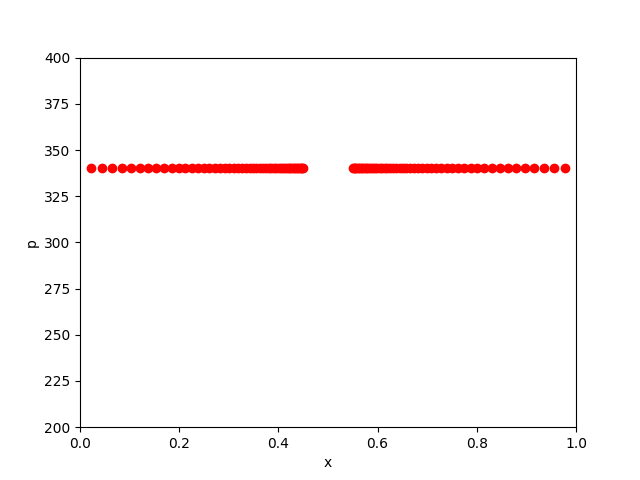
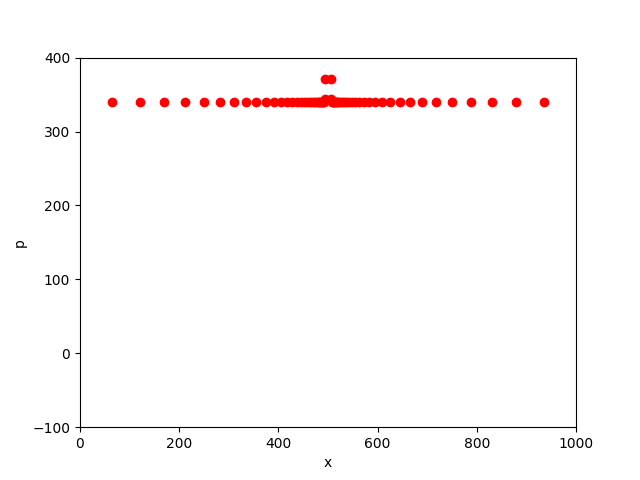
well class added

diff --git a/CVFEAssembler/cvfe_assembler.py b/CVFEAssembler/cvfe_assembler.py
@@ -3,13 +3,15 @@ import scipy.sparse
 
 from equation.base_equation import Equation
 from mesh1D.mesh1D import Mesh1D
+from well.well import Well
 
 
 def assemble_system(
     mesh: Mesh1D, 
     equation: Equation, 
-    dt, 
-    pold
+    well: Well,
+    dt: float,
+    pold: np.ndarray
 ):
     
     # get mesh
@@ -24,13 +26,17 @@ def assemble_system(
     acc = equation.accumulative_term()
     
     # Fill tridiagonal stiffness matrix
-    a, b, c, rhs = (np.zeros(N) for _ in range(4))
+    a, b, c, rhs = (np.zeros(N + 1) for _ in range(4))
+    
+    well_node = mesh.well_nId
     
     for i in range(1, N - 1):
+        p = pold[i]
+         
         a[i]   = lam / (mesh_nodes[i] - mesh_nodes[i - 1])
         c[i]   = lam / (mesh_nodes[i + 1] - mesh_nodes[i])
         b[i]   = - acc / dt * (mesh_nodes[i + 1] - mesh_nodes[i - 1]) / 2 - a[i] - c[i]
-        rhs[i] = - acc / dt * (mesh_nodes[i + 1] - mesh_nodes[i - 1]) / 2 * pold[i]
+        rhs[i] = - acc / dt * (mesh_nodes[i + 1] - mesh_nodes[i - 1]) / 2 * p
     
     # Left boundary
     c[0] = lam / (mesh_nodes[1] - mesh_nodes[0])
@@ -46,9 +52,22 @@ def assemble_system(
     A = scipy.sparse.diags(
         diagonals = [a[1:], b, c[:-1]],
         offsets=[-1, 0, 1],
-        shape=(N, N),
+        shape=(N + 1, N + 1),
         format='csr'
     )
+    
+    # ================================
+    # connect well to Stiffness matrix
+    
+    pisman_qoef = well.get_well_index(
+        (mesh_nodes[well_node] - mesh_nodes[well_node - 1]) / 2,
+        lam
+    )
+
+    A[well_node, N] = -pisman_qoef
+    A[N, well_node] = -pisman_qoef
+    A[N, N]         =  pisman_qoef
+    rhs[N]          = -well.get_q
     
     return A, rhs
     

diff --git a/LinearSolver.py b/LinearSolver.py
@@ -6,19 +6,29 @@ from pvts.LinearPVT import LinearPVT
 from equation.linear_equation1D import LinearEquation1D
 from CVFEAssembler.cvfe_assembler import assemble_system
 from solver.bcgstab_solver import BCGStabSolver
+from well.well import Well
 from visualization.visualizators import print_solution
 
 
 def LinearSolver():
     linear_element = LinearElement()
     
+    # Initialize well object
+    well = Well(
+        well_position=500,
+        rad_well=0.1,
+        skin=0,
+        q_rate=1, # m^3/day
+        well_h=10
+    )
+    
     # Initialize mesh object
     OneDimMesh = Mesh1D(
         x_start=0.0,
-        x_end=1.0,
-        min_h=0.05,
-        max_h=0.5,
-        well_x=0.5,
+        x_end=1000.0,
+        min_h=0.5,
+        max_h=1.,
+        well_x=well.get_well_position,
         element_type=linear_element,
         N=100,
         mesh_type="geometric"
@@ -37,24 +47,25 @@ def LinearSolver():
     # Initialize equation system solver
     Solver = BCGStabSolver(tol=0.001)
     
+    well_node = OneDimMesh.well_nId
+    
     # Time loop
-    for i in range(1, 100):
+    for i in range(1, 1000):
         # Assemble system
         Stifness_Matrix, Force_Vector = assemble_system(
             OneDimMesh,
             Equation_Data,
-            0.001,
+            well,
+            1,
             p_old
         )
         
         p_old = scipy.sparse.linalg.spsolve(Stifness_Matrix, Force_Vector)
         
-        print("Solved for " + str(i) + " time layer")
-        
-    print(p_old[-1])
-    
+        well.write_pwf(p_old[-1])
+                
     print_solution(OneDimMesh, p_old)
-        
+    
         
     
     print("Linear Solver Finished")

diff --git a/mesh1D/mesh1D.py b/mesh1D/mesh1D.py
@@ -32,6 +32,9 @@ class Mesh1D:
         # generate ordinary mesh
         self.generate_mesh()
         
+        # find well node
+        self.well_nId = self.find_well_node_id() 
+        
     def generate_mesh(self):
         if(self.mesh_type == "ordinary"):
             self.generate_ordinary_nodes()
@@ -52,7 +55,7 @@ class Mesh1D:
     def generate_ordinary_elements(self) -> None:
         self.elements = [[i, i + 1] for i in range(self.N)]
         
-    # Exponential mesh
+    # FIXME: Exponential mesh 
     def generate_exponential_nodes(self) -> None:
         xi = np.linspace(0, 1, self.N)
     
@@ -83,11 +86,20 @@ class Mesh1D:
         left_nodes  = [self.well_x - self.min_h * np.power(alpha_left,  i) for i in range(0, int(self.N / 2))]
         right_nodes = [self.well_x + self.min_h * np.power(alpha_right, i) for i in range(0, int(self.N / 2))]
         
+        left_nodes = left_nodes[::-1]
+        left_nodes.append(self.well_x)
+        self.N += 1
+        
         self.nodes = np.concatenate((left_nodes, right_nodes))
+    
         
     
     def generate_geometric_elements(self) -> None:
         pass
+    
+    def find_well_node_id(self) -> int:
+        return np.where(self.nodes == self.well_x)[0]
+    
     @property
     def get_nodes_count(self):
         return self.N

diff --git a/well/well.py b/well/well.py
@@ -1,0 +1,56 @@
+import numpy as np
+
+class Well:
+    def __init__(
+        self,
+        well_position: float,
+        rad_well: float,
+        skin: float,
+        q_rate: float,
+        well_h: float
+    ):
+        self.well_position = well_position
+        self.r_w = rad_well
+        self.skin = skin
+        self.q_rate = q_rate * 1.157 * 10e-5
+        self.well_h = well_h
+        
+        self.pwf = np.zeros(0)
+        
+    
+    def get_well_index(
+        self, 
+        cell_radius: float,
+        lam: float,
+        h: float = 10
+    ):
+        if(self.r_w >= cell_radius):
+            raise ValueError("r_w is too small")
+    
+        return 2 * np.pi * h * lam / (np.log(2 * cell_radius / self.r_w) + self.skin)
+    
+    
+    def write_pwf(self, pwf: float):
+        np.append(self.pwf, pwf)
+    
+    @property
+    def get_rw(self):
+        return self.r_w
+    
+    @property
+    def get_skin(self):
+        return self.skin
+    
+    @property
+    def get_q(self):
+        return self.q_rate
+    
+    @property
+    def get_well_position(self):
+        return self.well_position
+    
+    @property
+    def get_pwf(self):
+        return self.pwf
+    
+        

diff --git a/visualization/visualizators.py b/visualization/visualizators.py
@@ -9,12 +9,12 @@ def print_solution(
     last_solution: np.ndarray
 ):
     plt.figure("Solution at last time layer")
-    plt.plot(mesh_data.nodes, last_solution, "ro")
+    plt.plot(mesh_data.nodes, last_solution[0:-1], "ro")
     
     plt.xlabel("x")
     plt.ylabel("p")
     
-    plt.axis((mesh_data.x_start, mesh_data.x_end, 200, 400))
+    plt.axis((mesh_data.x_start, mesh_data.x_end, -100, 400))
     
     plt.savefig("visualization/last_sol.png")
     

diff --git a/pvts/LinearPVT.py b/pvts/LinearPVT.py
@@ -1,12 +1,11 @@
 
 class LinearPVT:
-    # FIXME: mD to m^2
-    k   = 33.33 * 9.8692326671601e-16
+    k   = 10 * 9.8692326671601e-16
     B   = 1
-    ct  = 6e-6 # FIXME: Pa
+    ct  = 8.8087848201176633e-08
     rho = 1000 
     phi = 0.1 
-    mu = 0.001 
+    mu = 1e-3
     
     def __init__(self) -> None:
         pass

diff --git a/main.py b/main.py
@@ -1,5 +1,4 @@
 # Gas diffusion solver
-
 from LinearSolver import LinearSolver
     
 def main():
@@ -8,4 +7,3 @@ def main():
 
 if __name__ == "__main__":
     main()
-    
